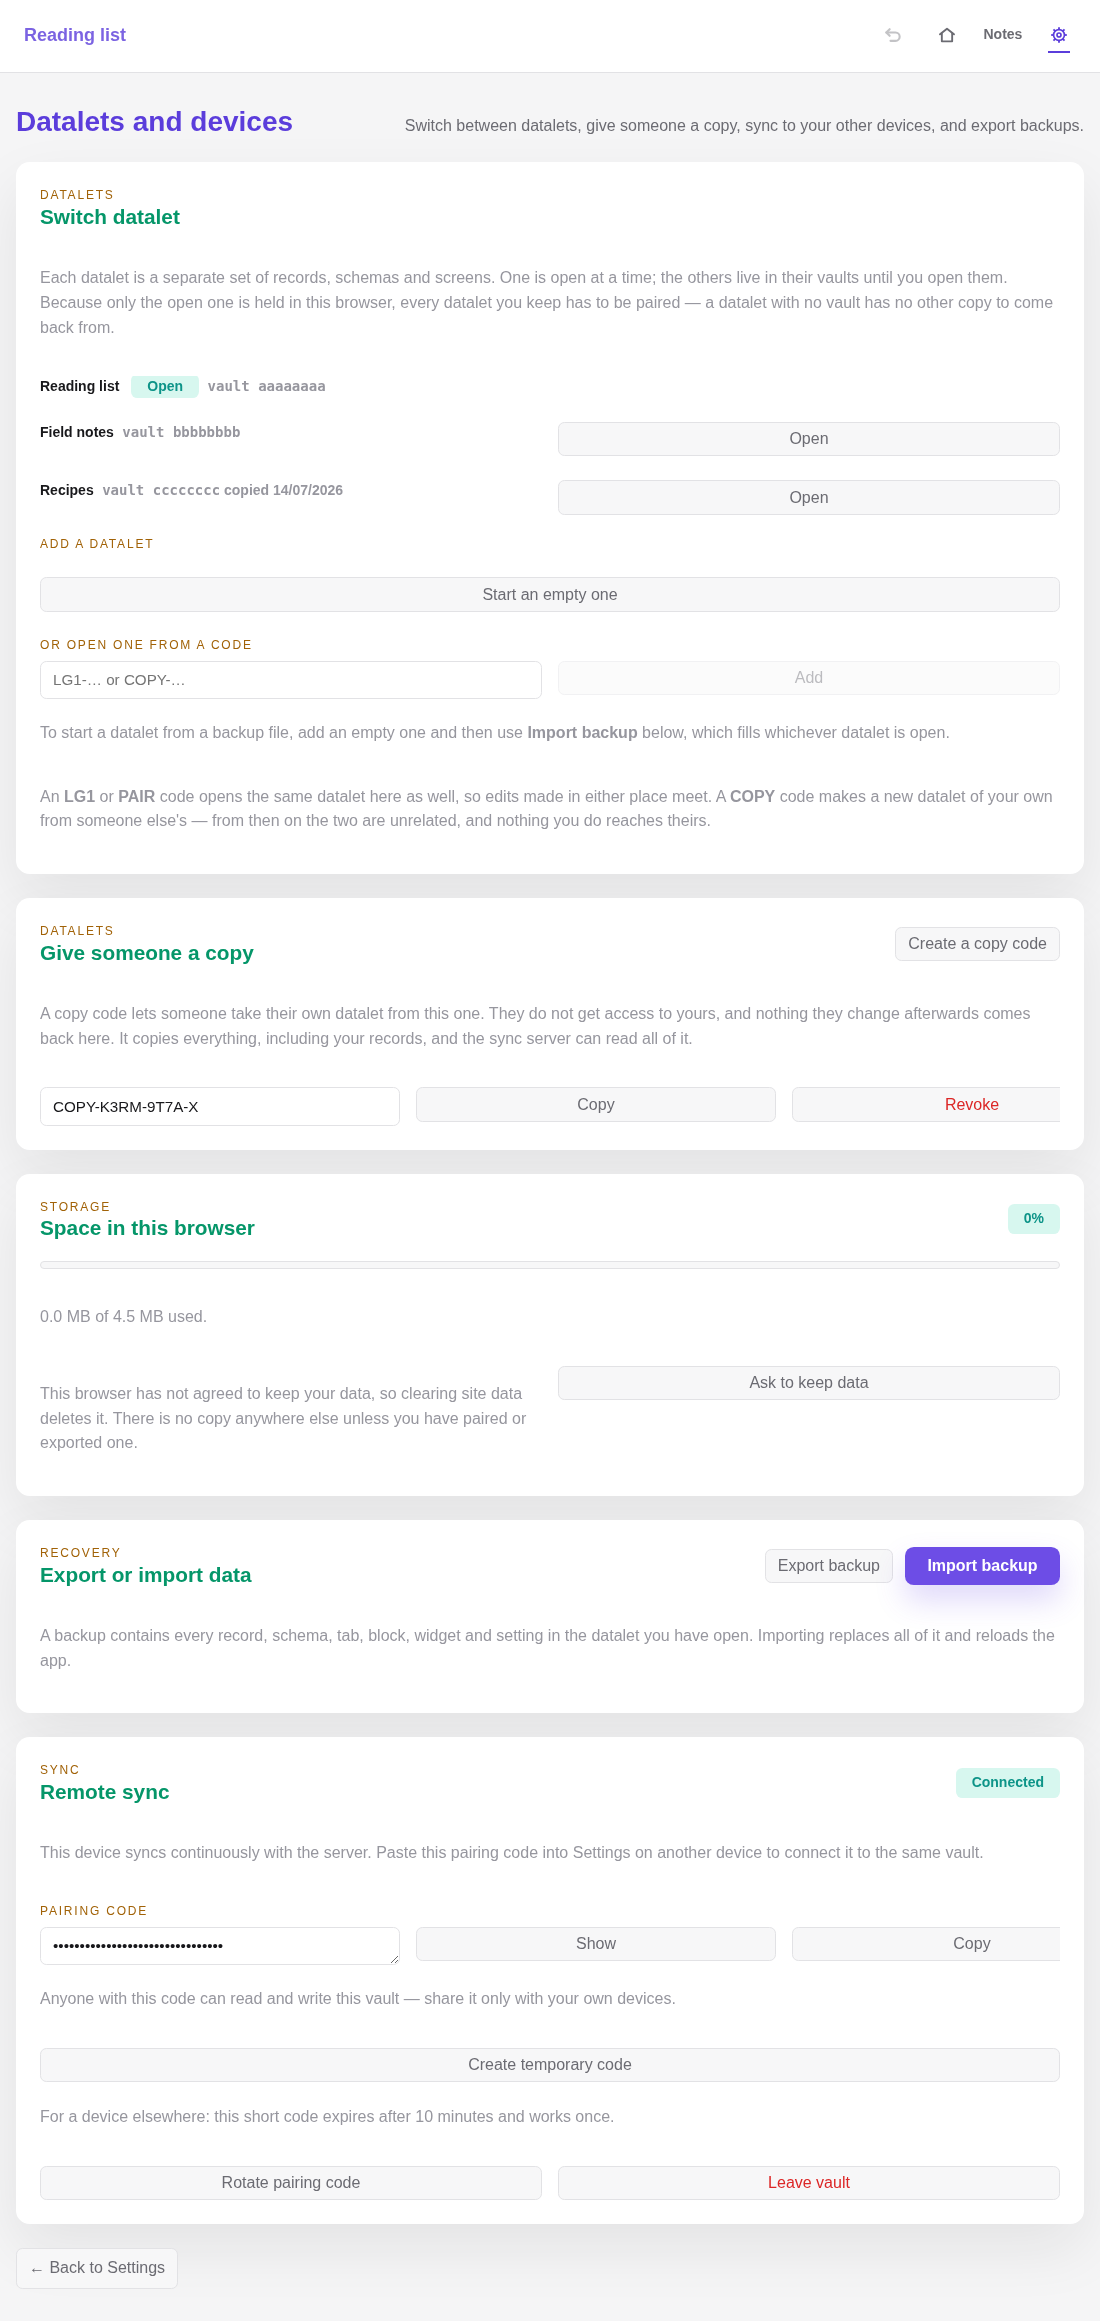
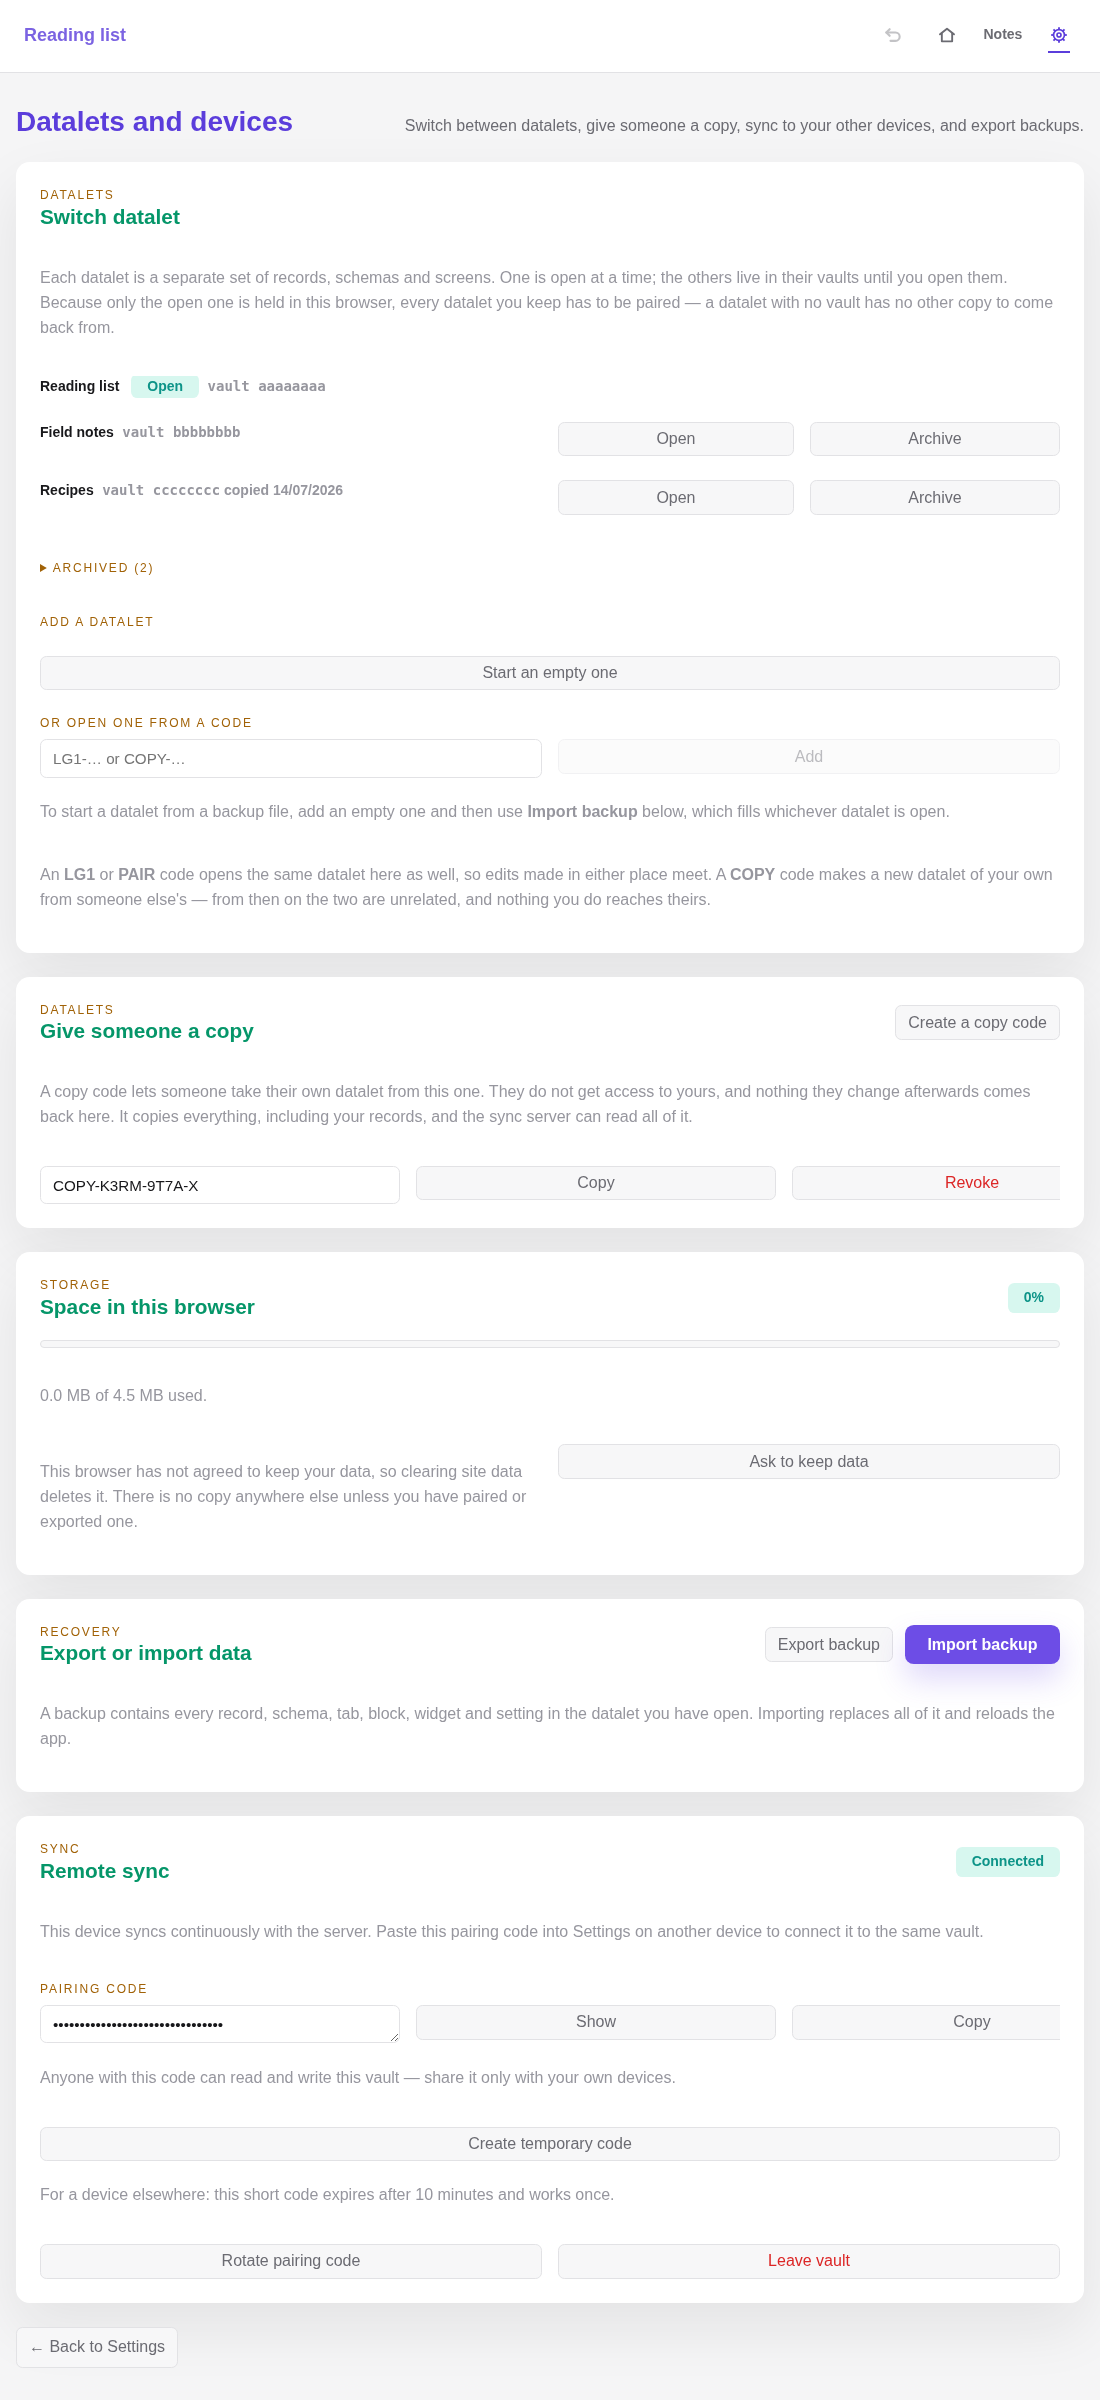
Let a datalet be put away without being deleted
Datalets are cheap to make and some are made to be finished with, so a list
that only grows makes the two you are using harder to find. Archiving moves one
into a collapsed Archived section: its vault, its credentials and every record
stay exactly as they were, and opening it brings it back. Nothing is reclaimed,
because an archived datalet still occupies its vault on the server - this is a
way to find things, not a way to free space, and the README says so rather than
letting anyone assume otherwise.

The open datalet cannot be archived. That would be an eviction and a switch in
one gesture, which is what canLeaveActiveDatalet exists to guard, and it would
leave the app choosing which datalet you land in. Open another first; the row
for the open one simply has no Archive button.

Opening an archived datalet restores it, so the list cannot disagree with what
the app is showing.

Two layout faults the generated screenshots caught, neither visible from the
DOM. `.layout-row > *` gives every child a 360px basis that does not shrink, so
a third child ran off the panel edge rather than fitting - both buttons now sit
in one child. And the archived rows inherited their spacing from the <details>
rather than from a stack, so they sat tighter than the rows above.

`forgetDatalet` is still dead code. It removes an entry along with its
credentials, which is the destructive sibling of this and has never been
reachable; archiving is what the list actually wanted.

diff --git a/src/components/DataletSettings.tsx b/src/components/DataletSettings.tsx
@@ -11,7 +11,7 @@
 import { useEffect, useState } from "react";
 import { useSettings } from "../hooks/useSettings";
 import usePrivateNuri from "./usePrivateNuri";
-import { listDatalets, type Datalet } from "../utils/datalets";
+import { listDatalets, setDataletArchived, type Datalet } from "../utils/datalets";
 import {
   adoptVaultAsDatalet,
   canLeaveActiveDatalet,
@@ -44,7 +44,8 @@ function dataletName(entry: Datalet, isActive: boolean, activeTitle: string): st
 export function DataletSettings() {
   const { appTitle } = useSettings();
   const privateNuri = usePrivateNuri();
-  const { entries, activeId } = listDatalets();
+  const { entries, archived, activeId } = listDatalets();
+  const [, forceRender] = useState(0);
   const [error, setError] = useState("");
   const [switching, setSwitching] = useState("");
 
@@ -127,6 +128,62 @@ export function DataletSettings() {
     }
   };
 
+  const setArchived = (entry: Datalet, archived: boolean) => {
+    setDataletArchived(entry.id, archived);
+    // The registry is localStorage, not React state, so nothing re-renders on
+    // its own.
+    forceRender((tick) => tick + 1);
+  };
+
+  const renderRow = (entry: Datalet) => {
+    const isActive = entry.id === activeId;
+    const isArchived = entry.archivedAt !== undefined;
+    return (
+      <div className="layout-row" key={entry.id}>
+        <span className="datalet-name">
+          {dataletName(entry, isActive, appTitle)}
+          {isActive && <span className="badge">Open</span>}
+          {entry.vault && (
+            <span className="helper-text datalet-vault-id">
+              {` vault ${entry.vault.vaultId.slice(0, 8)}`}
+            </span>
+          )}
+          {entry.copiedAt !== undefined && (
+            <span className="helper-text">
+              {` copied ${new Date(entry.copiedAt).toLocaleDateString()}`}
+            </span>
+          )}
+        </span>
+        {/* Both buttons in one child, because `.layout-row > *` gives every
+            child a 360px basis that does not shrink: a third child overflows
+            the panel instead of fitting. */}
+        {!isActive && (
+          <div className="datalet-row-actions">
+            <button
+              type="button"
+              className="secondary-btn"
+              disabled={!leaving.ok || switching !== "" || adding}
+              onClick={() => void goTo(entry)}
+            >
+              {switching === entry.id ? "Opening…" : "Open"}
+            </button>
+            {/* The open datalet cannot be archived: that would be an eviction
+                and a switch in one gesture, and would leave the app choosing
+                where you land. */}
+            <button
+              type="button"
+              className="secondary-btn"
+              disabled={switching !== "" || adding}
+              onClick={() => setArchived(entry, !isArchived)}
+            >
+              {isArchived ? "Restore" : "Archive"}
+            </button>
+          </div>
+        )}
+      </div>
+    );
+  };
+
   return (
     <section className="panel" id="switch-datalet">
       <div className="panel-header">
@@ -144,38 +201,25 @@ export function DataletSettings() {
       {!leaving.ok && <p className="helper-text danger-text">{leaving.message}</p>}
       {error && <p className="danger-text" role="alert">{error}</p>}
       <div className="section-stack">
-        {entries.map((entry) => {
-          const isActive = entry.id === activeId;
-          return (
-            <div className="layout-row" key={entry.id}>
-              <span className="datalet-name">
-                {dataletName(entry, isActive, appTitle)}
-                {isActive && <span className="badge">Open</span>}
-                {entry.vault && (
-                  <span className="helper-text datalet-vault-id">
-                    {` vault ${entry.vault.vaultId.slice(0, 8)}`}
-                  </span>
-                )}
-                {entry.copiedAt !== undefined && (
-                  <span className="helper-text">
-                    {` copied ${new Date(entry.copiedAt).toLocaleDateString()}`}
-                  </span>
-                )}
-              </span>
-              {!isActive && (
-                <button
-                  type="button"
-                  className="secondary-btn"
-                  disabled={!leaving.ok || switching !== "" || adding}
-                  onClick={() => void goTo(entry)}
-                >
-                  {switching === entry.id ? "Opening…" : "Open"}
-                </button>
-              )}
-            </div>
-          );
-        })}
+        {entries.map((entry) => renderRow(entry))}
       </div>
+
+      {archived.length > 0 && (
+        <details className="datalet-archive">
+          <summary className="field-label datalet-archive-summary">
+            {`Archived (${archived.length})`}
+          </summary>
+          <p className="helper-text">
+            Put away, not deleted. Each one's vault and every record in it are
+            untouched, and opening one brings it back to the list above.
+          </p>
+          {/* Its own stack, so the rows here are spaced exactly like the rows
+              above rather than inheriting whatever the <details> does. */}
+          <div className="section-stack">
+            {archived.map((entry) => renderRow(entry))}
+          </div>
+        </details>
+      )}
 
       <div className="section-stack">
         <p className="label-accent">Add a datalet</p>

diff --git a/src/utils/datalets.ts b/src/utils/datalets.ts
@@ -50,6 +50,16 @@ export type Datalet = {
    * `Vault 1586f18f` never did.
    */
   title?: string;
+  /**
+   * When this datalet was put out of the way, if it was.
+   *
+   * Archiving is emphatically not deleting: the vault, its credentials and
+   * every record stay exactly as they were, and restoring is one click. It
+   * exists because datalets are cheap to make and some are made to be
+   * finished with - a list that only ever grows makes the three you are using
+   * harder to find, which is the opposite of what the list is for.
+   */
+  archivedAt?: number;
 };
 
 /**
@@ -190,6 +200,34 @@ export function setActiveDatalet(id: string): void {
   writeDatalets({ ...registry, activeId: id });
 }
 
+/**
+ * Put a datalet out of the way, or bring it back.
+ *
+ * The open datalet cannot be archived. Archiving it would mean evicting and
+ * switching in one gesture, which is the operation `canLeaveActiveDatalet`
+ * exists to guard - and it would leave the app deciding on its own which
+ * datalet you land in. Open another one first.
+ */
+export function setDataletArchived(id: string, archived: boolean): void {
+  const registry = readDatalets();
+  if (!registry) return;
+  if (archived && id === registry.activeId) return;
+  writeDatalets({
+    ...registry,
+    entries: registry.entries.map((entry) =>
+      entry.id === id
+        ? archived
+          ? { ...entry, archivedAt: Date.now() }
+          : stripArchive(entry)
+        : entry),
+  });
+}
+
+function stripArchive(entry: Datalet): Datalet {
+  const { archivedAt: _archivedAt, ...rest } = entry;
+  return rest;
+}
+
 /** Forget a datalet. Its vault is untouched, so the data is not destroyed. */
 export function forgetDatalet(id: string): void {
   const registry = readDatalets();
@@ -202,8 +240,17 @@ export function forgetDatalet(id: string): void {
   writeDatalets({ activeId, entries });
 }
 
-/** Every datalet this browser knows about, active first. */
-export function listDatalets(): { entries: Datalet[]; activeId: string } {
+/**
+ * Every datalet this browser knows about, split by whether it has been put
+ * away. The active one is never in `archived`, because it cannot be archived
+ * while it is open.
+ */
+export function listDatalets(): { entries: Datalet[]; archived: Datalet[]; activeId: string } {
   const registry = readDatalets();
-  return registry ? { entries: registry.entries, activeId: registry.activeId } : { entries: [], activeId: "" };
+  if (!registry) return { entries: [], archived: [], activeId: "" };
+  return {
+    entries: registry.entries.filter((entry) => entry.archivedAt === undefined),
+    archived: registry.entries.filter((entry) => entry.archivedAt !== undefined),
+    activeId: registry.activeId,
+  };
 }

diff --git a/tests/datalets.spec.ts b/tests/datalets.spec.ts
@@ -12,6 +12,7 @@ type Seed = {
   entries: Array<{
     id: string;
     title?: string;
+    archivedAt?: number;
     vault?: { vaultId: string; vaultToken: string; nodeId: string };
   }>;
   activeId: string;
@@ -311,4 +312,53 @@ test("renaming the app records the name against the datalet", async ({ page }) =
     const registry = JSON.parse(localStorage.getItem("meta-ui-builder:datalets") ?? "{}");
     return registry.entries?.[0]?.title;
   })).toBe("Field notes");
+});
+
+test("a datalet can be put away and brought back without touching its vault", async ({ page }) => {
+  await seedDatalets(page, {
+    activeId: "a",
+    entries: [{ id: "a", vault: vaultA }, { id: "b", title: "Old experiment", vault: vaultB }],
+  });
+  await page.goto("/settings/datalets");
+
+  await page.getByRole("button", { name: "Archive" }).click();
+  await expect(page.getByText("Archived (1)")).toBeVisible();
+
+  // The credentials survive: archiving is not forgetting, and the datalet must
+  // still be openable afterwards.
+  expect(await page.evaluate(() => {
+    const registry = JSON.parse(localStorage.getItem("meta-ui-builder:datalets") ?? "{}");
+    const entry = registry.entries.find((e: { id: string }) => e.id === "b");
+    return { hasVault: entry.vault?.vaultToken !== undefined, archived: entry.archivedAt !== undefined };
+  })).toEqual({ hasVault: true, archived: true });
+
+  await page.getByText("Archived (1)").click();
+  await page.getByRole("button", { name: "Restore" }).click();
+  await expect(page.getByText("Archived (")).toHaveCount(0);
+  await expect(page.getByRole("button", { name: "Archive" })).toBeVisible();
+});
+
+test("the open datalet offers no way to archive itself", async ({ page }) => {
+  await seedDatalets(page, {
+    activeId: "a",
+    entries: [{ id: "a", vault: vaultA }, { id: "b", vault: vaultB }],
+  });
+  await page.goto("/settings/datalets");
+  // One Archive button, for the one that is not open. Archiving the open one
+  // would be an eviction and a switch at once.
+  await expect(page.getByRole("button", { name: "Archive" })).toHaveCount(1);
+});
+
+test("archived datalets are out of the main list until expanded", async ({ page }) => {
+  await seedDatalets(page, {
+    activeId: "a",
+    entries: [
+      { id: "a", vault: vaultA },
+      { id: "b", title: "Old sketches", vault: vaultB, archivedAt: 1_770_000_000_000 },
+    ],
+  });
+  await page.goto("/settings/datalets");
+  await expect(page.getByText("Old sketches")).not.toBeVisible();
+  await page.getByText("Archived (1)").click();
+  await expect(page.getByText("Old sketches")).toBeVisible();
 });

diff --git a/tests/screenshots.spec.ts b/tests/screenshots.spec.ts
@@ -144,12 +144,17 @@ test("datalets and devices", async ({ page }) => {
         { id: "a", vault: vault("a") },
         { id: "b", title: "Field notes", vault: vault("b") },
         { id: "c", title: "Recipes", vault: vault("c"), copiedAt: COPIED_AT },
+        { id: "d", title: "Conference notes", vault: vault("d"), archivedAt: COPIED_AT },
+        { id: "e", title: "Old sketches", vault: vault("e"), archivedAt: COPIED_AT },
       ],
     },
   });
   await page.goto("/settings/datalets");
   await shot(page, "datalets");
   await shot(page, "switch-datalet", "#switch-datalet");
+  // Expanded, or the shot shows a closed row and explains nothing.
+  await page.getByText("Archived (2)").click();
+  await shot(page, "switch-datalet-archived", "#switch-datalet");
   await shot(page, "storage", "#storage");
   await shot(page, "copy-codes", "#copy-codes");
   await shot(page, "sync-paired", "#sync");

diff --git a/src/utils/dataletSwitch.ts b/src/utils/dataletSwitch.ts
@@ -32,6 +32,7 @@ import {
   dataletGraph,
   rememberActiveDataletTitle,
   setActiveDatalet,
+  setDataletArchived,
   type Datalet,
 } from "./datalets";
 import { SETTINGS_ID } from "../hooks/useSettings";
@@ -131,6 +132,10 @@ async function adopt(target: Datalet, localGraph: string | undefined) {
   flushLocalPersistence();
   setDataletCursor(target.vault.vaultId, snapshot.seq);
   setActiveDatalet(target.id);
+  // Opening an archived datalet brings it back: something you are working in
+  // is not put away, and leaving it archived would make the list disagree with
+  // what the app is showing.
+  setDataletArchived(target.id, false);
   if (incomingTitle) rememberActiveDataletTitle(incomingTitle);
   window.location.reload();
 }

diff --git a/src/styles/global.css b/src/styles/global.css
@@ -726,6 +726,26 @@ a {
     opacity: 0.45;
 }
 
+.datalet-archive {
+    margin-top: var(--space-6);
+}
+
+/* One row child holding both actions, so the row keeps to the two-child shape
+   `.layout-row > *` is sized for. */
+.datalet-row-actions {
+    display: flex;
+    gap: var(--space-4);
+}
+
+.datalet-row-actions > .secondary-btn {
+    flex: 1 1 auto;
+}
+
+.datalet-archive-summary {
+    cursor: pointer;
+    margin-bottom: var(--space-4);
+}
+
 /* A datalet's row is named with the title its owner chose, so it must not take
    `.field-label`, which uppercases and letterspaces its content: that styles a
    person's name for their app as though it were a form label, and "Reading

diff --git a/README.md b/README.md
@@ -289,15 +289,26 @@ tabs, blocks, widgets and theme. You can keep several and use one at a time,
 switching between them from **Settings → Manage datalets**, which is also where
 pairing, copies, storage and backups live.
 
-![The datalet switcher listing three datalets — Reading list marked Open,
-Field notes, and Recipes marked as copied — each with its vault
-id.](docs/images/switch-datalet.png)
+![The datalet switcher: Reading list marked Open, Field notes and Recipes each
+with Open and Archive buttons, and an expanded Archived section holding two
+more with Open and Restore.](docs/images/switch-datalet-archived.png)
 
 Only the datalet you have open is held in this browser, which is why keeping
 more than one requires each to be paired: the ones you are not using live in
 their vaults until you open them. A datalet with no vault has no other copy to
 come back from, so the app will ask you to pair the one you have before adding
 another.
+
+Datalets are cheap to make, and some are made to be finished with. **Archive**
+puts one out of the way without deleting anything: its vault, its credentials
+and every record in it are untouched, it drops out of the list into a collapsed
+**Archived** section, and opening it brings it back. Nothing is reclaimed by
+archiving — an archived datalet still occupies its vault on the sync server —
+so it is a way to find the two you are using, not a way to free space.
+
+The datalet you have open cannot be archived. That would mean evicting it and
+switching in one gesture, and would leave the app deciding which datalet you
+land in; open another one first.
 
 Two things that look alike and are opposites:
 

diff --git a/docs/architecture.md b/docs/architecture.md
@@ -650,7 +650,8 @@ src/
     ├── tabRoutes.ts            Derives readable tab slugs; raw ids still resolve
     ├── randomId.ts             UUIDs, with a fallback where randomUUID is absent
     ├── clipboard.ts            Copy with a legacy fallback; reports whether it worked
-    ├── datalets.ts             The registry of datalets and which one is active
+    ├── datalets.ts             The registry: which datalets exist, which is
+    │                           active, which are archived
     ├── dataletSwitch.ts        Switching between them, and the rules that refuse it
     ├── storagePersistence.ts   Asks the browser to keep this origin's storage
     ├── themeTokens.ts          The allowlisted colour roles and value grammar
